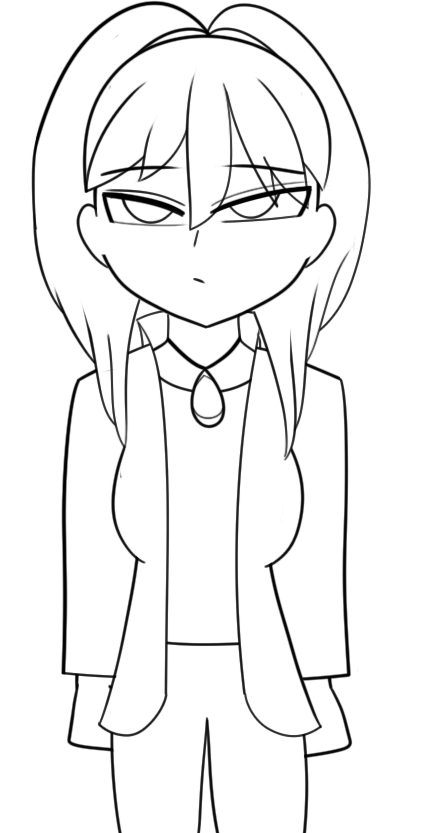
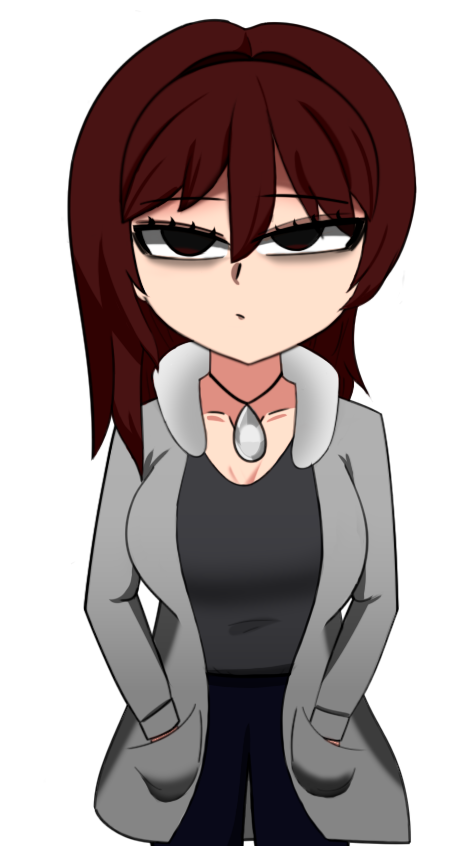
V.0.3.8.1
Agregado retrato de Angelina, configuración de flowchart arreglada.

diff --git a/Assets/scripts/NpcMoveTo.cs b/Assets/scripts/NpcMoveTo.cs
@@ -38,7 +38,6 @@ public class NpcMoveTo : MonoBehaviour
         if (npcName == "Serena" || npcName == "Angelina") //A menos que se trate de Serena, el PNJ no puede seguir al PJ
         {
             compañero = true;
-            Debug.Log(compañero);
         }
         else
         {
